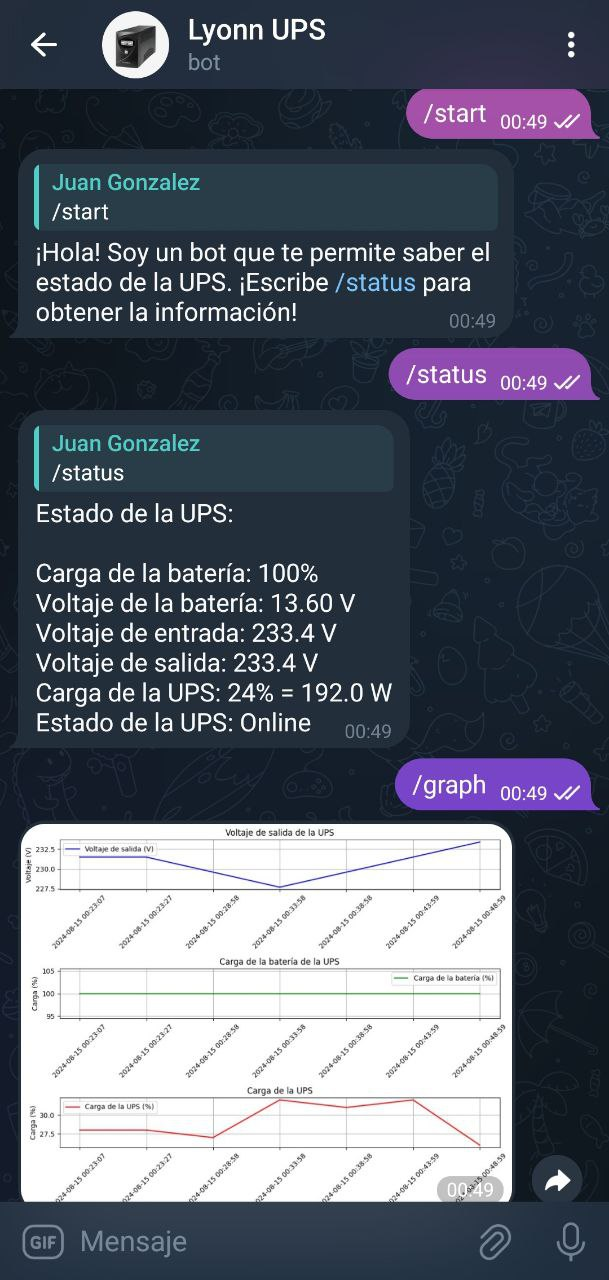
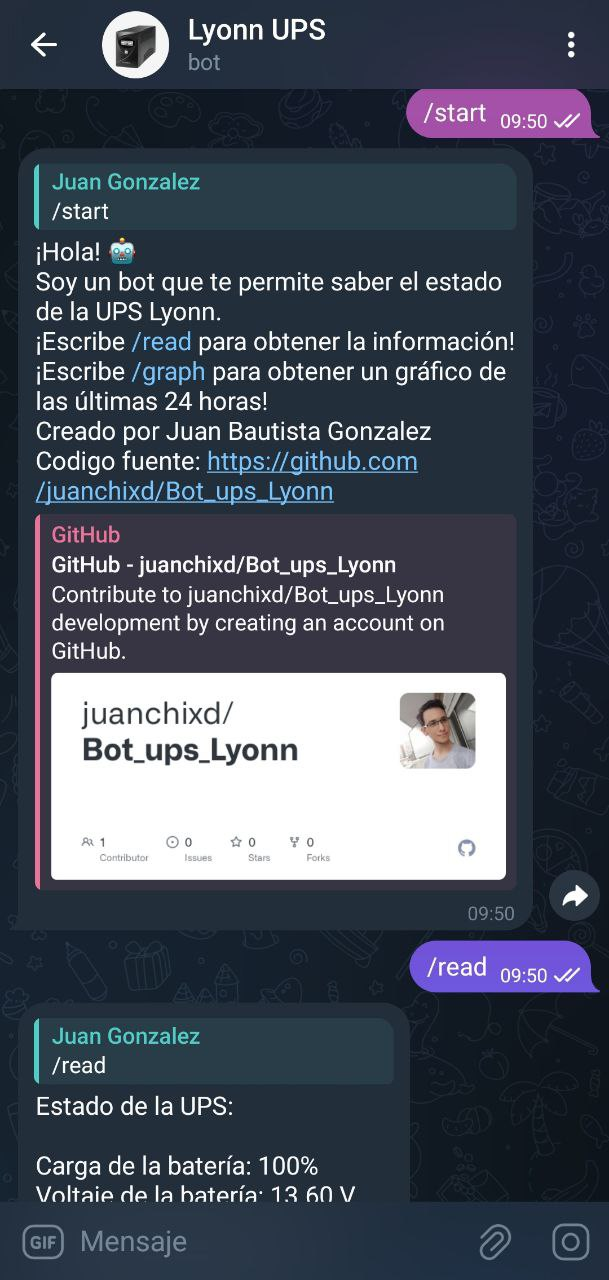
Update bot and README.MD

diff --git a/main.py b/main.py
@@ -12,6 +12,7 @@ import subprocess
 import threading
 import time
 import matplotlib.pyplot as plt
+import matplotlib.dates as mdates
 import complements.sql as sql
 from dotenv import load_dotenv, dotenv_values
 from subprocess import Popen, PIPE
@@ -60,9 +61,19 @@ def get_ups_status():
 
 
 def save_ups_status():
+    status_aux = True
     while True:
         try:
             status = get_ups_status()
+            if status['ups_status'] != 'OL' and status_aux == True:
+                bot.send_message(
+                    CHAT_ID, f"La UPS está en estado de apagado")
+                status_aux = False
+            else:
+                if status_aux == False:
+                    bot.send_message(
+                        CHAT_ID, f"La UPS está en estado de encendido")
+                    status_aux = True
             sql.save_status(status)
             time.sleep(300)
         except Exception as e:
@@ -77,10 +88,15 @@ threading.Thread(target=save_ups_status, daemon=True).start()
 @bot.message_handler(commands=['start'])
 def send_welcome(message):
     bot.reply_to(
-        message, "¡Hola! Soy un bot que te permite saber el estado de la UPS. ¡Escribe /status para obtener la información!")
+        message, """¡Hola! 🤖
+Soy un bot que te permite saber el estado de la UPS Lyonn. 
+¡Escribe /read para obtener la información!
+¡Escribe /graph para obtener un gráfico de las últimas 24 horas!
+Creado por Juan Bautista Gonzalez
+Codigo fuente: https://github.com/juanchixd/Bot_ups_Lyonn""")
 
 
-@bot.message_handler(commands=['status'])
+@bot.message_handler(commands=['read'])
 def send_status(message):
     # Obtener el estado de la UPS
     # Get the UPS status
@@ -110,34 +126,81 @@ def send_graph(message):
     if data:
         timestamps, output_voltages, battery_charges, ups_loads = zip(*data)
 
+        # Convertir timestamps a objetos datetime / Convert timestamps to datetime objects
+        timestamps = [mdates.datestr2num(ts) for ts in timestamps]
+
         plt.figure(figsize=(10, 8))
 
+        # Configurar formato del eje X / Configure X axis format
+        locator = mdates.HourLocator(interval=2)
+        formatter = mdates.DateFormatter('%H:%M')
+
+        # Gráfico del voltaje de salida / Output voltage graph
         plt.subplot(3, 1, 1)
         plt.plot(timestamps, output_voltages,
                  label='Voltaje de salida (V)', color='blue')
-        plt.title('Voltaje de salida de la UPS')
         plt.ylabel('Voltaje (V)')
         plt.xticks(rotation=45)
         plt.grid(True)
-        plt.legend()
+        plt.gca().xaxis.set_major_locator(locator)
+        plt.gca().xaxis.set_major_formatter(formatter)
 
+        # Marcar el punto máximo y mínimo del voltaje de salida / Mark the maximum and minimum output voltage point
+        max_voltage = max(output_voltages)
+        min_voltage = min(output_voltages)
+        max_time_voltage = timestamps[output_voltages.index(max_voltage)]
+        min_time_voltage = timestamps[output_voltages.index(min_voltage)]
+        plt.plot(max_time_voltage, max_voltage, 'ro')
+        plt.plot(min_time_voltage, min_voltage, 'go')
+        plt.annotate(f'Max: {max_voltage}V', xy=(max_time_voltage, max_voltage), xytext=(max_time_voltage, max_voltage + 2),
+                     arrowprops=dict(facecolor='black', shrink=0.05, width=1, headwidth=5))
+        plt.annotate(f'Min: {min_voltage}V', xy=(min_time_voltage, min_voltage), xytext=(min_time_voltage, min_voltage - 2),
+                     arrowprops=dict(facecolor='black', shrink=0.05, width=1, headwidth=5))
+
+        # Gráfico de la carga de la batería / Battery charge graph
         plt.subplot(3, 1, 2)
         plt.plot(timestamps, battery_charges,
                  label='Carga de la batería (%)', color='green')
-        plt.title('Carga de la batería de la UPS')
         plt.ylabel('Carga (%)')
         plt.xticks(rotation=45)
         plt.grid(True)
-        plt.legend()
+        plt.gca().xaxis.set_major_locator(locator)
+        plt.gca().xaxis.set_major_formatter(formatter)
 
+        # Marcar el punto máximo y mínimo de la carga de la batería / Mark the maximum and minimum battery charge point
+        max_charge = max(battery_charges)
+        min_charge = min(battery_charges)
+        max_time_charge = timestamps[battery_charges.index(max_charge)]
+        min_time_charge = timestamps[battery_charges.index(min_charge)]
+        plt.plot(max_time_charge, max_charge, 'ro')
+        plt.plot(min_time_charge, min_charge, 'go')
+        plt.annotate(f'Max: {max_charge}%', xy=(max_time_charge, max_charge), xytext=(max_time_charge, max_charge + 2),
+                     arrowprops=dict(facecolor='black', shrink=0.05, width=1, headwidth=5))
+        plt.annotate(f'Min: {min_charge}%', xy=(min_time_charge, min_charge), xytext=(min_time_charge, min_charge - 2),
+                     arrowprops=dict(facecolor='black', shrink=0.05, width=1, headwidth=5))
+
+        # Gráfico del consumo (carga de la UPS) / UPS load graph
         plt.subplot(3, 1, 3)
         plt.plot(timestamps, ups_loads,
-                 label='Carga de la UPS (%)', color='red')
-        plt.title('Carga de la UPS')
-        plt.ylabel('Carga (%)')
+                 label='Consumo de la UPS (%)', color='red')
+        plt.ylabel('Consumo (%)')
+        plt.xlabel('Hora')
         plt.xticks(rotation=45)
         plt.grid(True)
-        plt.legend()
+        plt.gca().xaxis.set_major_locator(locator)
+        plt.gca().xaxis.set_major_formatter(formatter)
+
+        # Marcar el punto máximo y mínimo del consumo de la UPS / Mark the maximum and minimum UPS load point
+        max_load = max(ups_loads)
+        min_load = min(ups_loads)
+        max_time_load = timestamps[ups_loads.index(max_load)]
+        min_time_load = timestamps[ups_loads.index(min_load)]
+        plt.plot(max_time_load, max_load, 'ro')
+        plt.plot(min_time_load, min_load, 'go')
+        plt.annotate(f'Max: {max_load}%', xy=(max_time_load, max_load), xytext=(max_time_load, max_load + 2),
+                     arrowprops=dict(facecolor='black', shrink=0.05, width=1, headwidth=5))
+        plt.annotate(f'Min: {min_load}%', xy=(min_time_load, min_load), xytext=(min_time_load, min_load - 2),
+                     arrowprops=dict(facecolor='black', shrink=0.05, width=1, headwidth=5))
 
         plt.tight_layout()
         plt.savefig('graph.png', bbox_inches='tight')

diff --git a/test/test.py b/test/test.py
@@ -1,0 +1,105 @@
+import matplotlib.pyplot as plt
+import matplotlib.dates as mdates
+import sqlite3
+import complements.sql as sql
+
+
+def send_voltage_graph():
+    conn = sqlite3.connect('ups_data.db')
+    cursor = conn.cursor()
+
+    # Seleccionar los datos de las últimas 24 horas
+    cursor.execute('''
+        SELECT timestamp, output_voltage, battery_charge, ups_load FROM ups_status
+        WHERE timestamp >= datetime('now', '-24 hours')
+    ''')
+    data = cursor.fetchall()
+    conn.close()
+
+    if data:
+        timestamps, output_voltages, battery_charges, ups_loads = zip(*data)
+
+        # Convertir timestamps a objetos datetime
+        timestamps = [mdates.datestr2num(ts) for ts in timestamps]
+
+        plt.figure(figsize=(10, 8))
+
+        # Configurar formato del eje X
+        locator = mdates.HourLocator(interval=2)
+        formatter = mdates.DateFormatter('%H:%M')
+
+        # Gráfico del voltaje de salida
+        plt.subplot(3, 1, 1)
+        plt.plot(timestamps, output_voltages,
+                 label='Voltaje de salida (V)', color='blue')
+        plt.ylabel('Voltaje (V)')
+        plt.xticks(rotation=45)
+        plt.grid(True)
+        plt.gca().xaxis.set_major_locator(locator)
+        plt.gca().xaxis.set_major_formatter(formatter)
+
+        # Marcar el punto máximo y mínimo del voltaje de salida
+        max_voltage = max(output_voltages)
+        min_voltage = min(output_voltages)
+        max_time_voltage = timestamps[output_voltages.index(max_voltage)]
+        min_time_voltage = timestamps[output_voltages.index(min_voltage)]
+        plt.plot(max_time_voltage, max_voltage, 'ro')
+        plt.plot(min_time_voltage, min_voltage, 'go')
+        plt.annotate(f'Max: {max_voltage}V', xy=(max_time_voltage, max_voltage), xytext=(max_time_voltage, max_voltage + 2),
+                     arrowprops=dict(facecolor='black', shrink=0.05, width=1, headwidth=5))
+        plt.annotate(f'Min: {min_voltage}V', xy=(min_time_voltage, min_voltage), xytext=(min_time_voltage, min_voltage - 2),
+                     arrowprops=dict(facecolor='black', shrink=0.05, width=1, headwidth=5))
+
+        # Gráfico de la carga de la batería
+        plt.subplot(3, 1, 2)
+        plt.plot(timestamps, battery_charges,
+                 label='Carga de la batería (%)', color='green')
+        plt.ylabel('Carga (%)')
+        plt.xticks(rotation=45)
+        plt.grid(True)
+        plt.gca().xaxis.set_major_locator(locator)
+        plt.gca().xaxis.set_major_formatter(formatter)
+
+        # Marcar el punto máximo y mínimo de la carga de la batería
+        max_charge = max(battery_charges)
+        min_charge = min(battery_charges)
+        max_time_charge = timestamps[battery_charges.index(max_charge)]
+        min_time_charge = timestamps[battery_charges.index(min_charge)]
+        plt.plot(max_time_charge, max_charge, 'ro')
+        plt.plot(min_time_charge, min_charge, 'go')
+        plt.annotate(f'Max: {max_charge}%', xy=(max_time_charge, max_charge), xytext=(max_time_charge, max_charge + 2),
+                     arrowprops=dict(facecolor='black', shrink=0.05, width=1, headwidth=5))
+        plt.annotate(f'Min: {min_charge}%', xy=(min_time_charge, min_charge), xytext=(min_time_charge, min_charge - 2),
+                     arrowprops=dict(facecolor='black', shrink=0.05, width=1, headwidth=5))
+
+        # Gráfico del consumo (carga de la UPS)
+        plt.subplot(3, 1, 3)
+        plt.plot(timestamps, ups_loads,
+                 label='Consumo de la UPS (%)', color='red')
+        plt.ylabel('Consumo (%)')
+        plt.xlabel('Hora')
+        plt.xticks(rotation=45)
+        plt.grid(True)
+        plt.gca().xaxis.set_major_locator(locator)
+        plt.gca().xaxis.set_major_formatter(formatter)
+
+        # Marcar el punto máximo y mínimo del consumo de la UPS
+        max_load = max(ups_loads)
+        min_load = min(ups_loads)
+        max_time_load = timestamps[ups_loads.index(max_load)]
+        min_time_load = timestamps[ups_loads.index(min_load)]
+        plt.plot(max_time_load, max_load, 'ro')
+        plt.plot(min_time_load, min_load, 'go')
+        plt.annotate(f'Max: {max_load}%', xy=(max_time_load, max_load), xytext=(max_time_load, max_load + 2),
+                     arrowprops=dict(facecolor='black', shrink=0.05, width=1, headwidth=5))
+        plt.annotate(f'Min: {min_load}%', xy=(min_time_load, min_load), xytext=(min_time_load, min_load - 2),
+                     arrowprops=dict(facecolor='black', shrink=0.05, width=1, headwidth=5))
+
+        plt.tight_layout()
+        plt.savefig('graph.png', bbox_inches='tight')
+        plt.close()
+
+
+if __name__ == '__main__':
+    send_voltage_graph()
+    print('Graph saved!')

diff --git a/README.MD b/README.MD
@@ -10,6 +10,7 @@
   - [Table of Contents](#table-of-contents)
   - [Introduction](#introduction)
   - [Demo](#demo)
+  - [Screenshots](#screenshots)
   - [Features](#features)
   - [Development](#development)
     - [Proxmox](#proxmox)
@@ -44,7 +45,13 @@ This idea is based on a project that I found on the internet, but I made some ch
 
 You can test the bot by sending a message to the [Lyonn UPS Telegram Bot](https://t.me/Lyonn_UPS_bot) on Telegram.
 
-![Demo](img/1.png)
+## Screenshots
+
+![Demo](img/complete.png)
+
+Graphic
+
+![Demo](img/graph.png)
 
 ## Features
 
@@ -330,15 +337,15 @@ Please make sure to update tests as appropriate.
 ## Gratitudes
 
 - **heywhatsupo1235** - _For the solution to the NUT problem in proxmox_ - [heywhatsupo1235](https://forum.proxmox.com/threads/network-ups-tools-nut-as-ubuntu-22-04-lxc-container.152248/)
-- **eternnoir** - _For the pyTelegramBotAPI library_ - [eternnoir](
+- **eternnoir** - _For the pyTelegramBotAPI library_ - [eternnoir](https://github.com/eternnoir/pyTelegramBotAPI)
 - **Kreaweb** - _For the Proxmox tutorial_ - [Kreaweb](https://www.kreaweb.be/diy-home-server-2021-software-proxmox-ups/#a_Create_LXC_container)
 - **Network UPS Tools** - _For the NUT software_ - [Network UPS Tools](https://networkupstools.org)
-- **Juan Blanc** y **Eze Fernandez** - _For the help with the development_ - [Juan Blanc](https://github.com/juanstdio) - [Eze Fernandez](https://github.com/ezefernandez93)
+- **Juan Blanc** & **Eze Fernandez** - _For the help with the development_ - [Juan Blanc](https://github.com/juanstdio) - [Eze Fernandez](https://github.com/ezefernandez93)
 
 ## License
 
 This project is licensed under the Apache License 2.0 - see the [LICENSE](LICENSE) file for details.
 
 ```python
-# Lyonn UPS Telegram Bot
+# Lyonn UPS Telegram Bot - Developed by Juan Gonzalez
 ```
